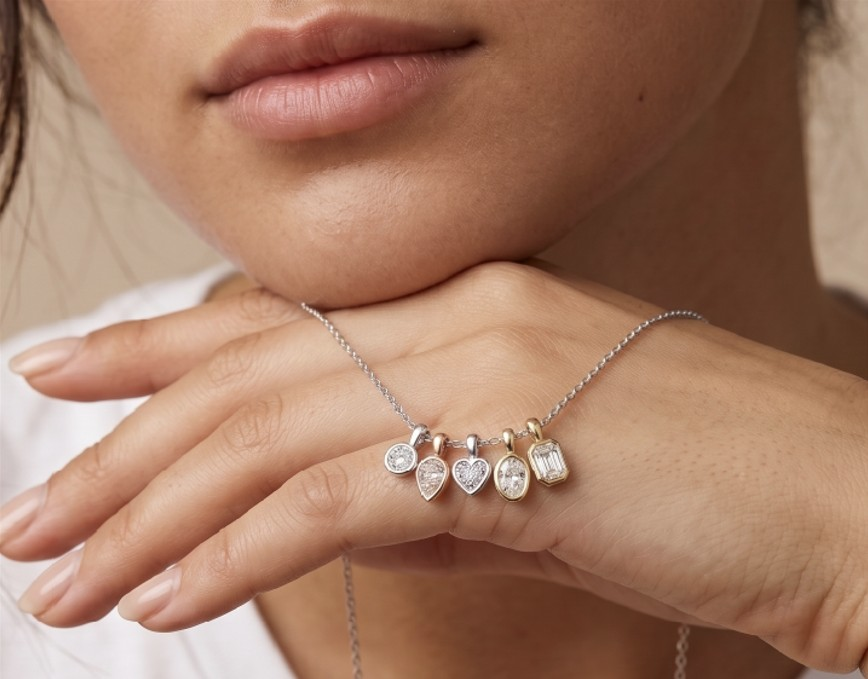
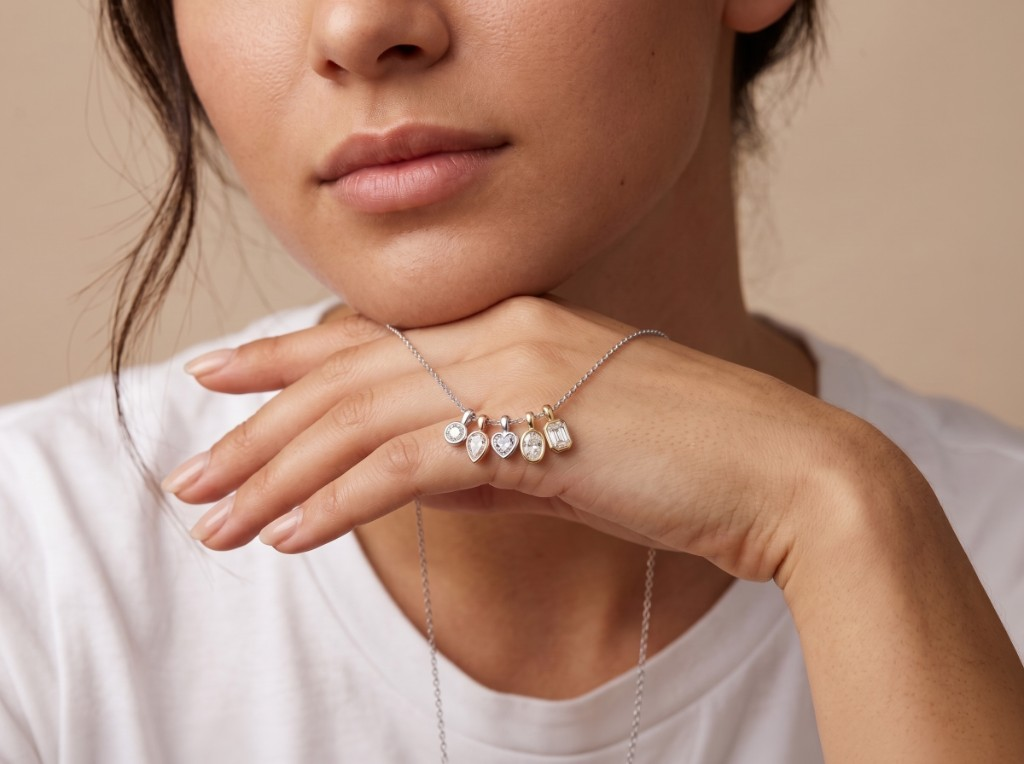
feat: integrate Pendant Collection details into Header and Category pages for enhanced user engagement and visual appeal

diff --git a/components/Products.js b/components/Products.js
@@ -405,7 +405,7 @@ const Products = ({
 					<div
 						className={`${styles.products} ${!individual ? styles.gap : ''}`}
 					>
-						{collectionPreview?.media && (
+						{(collectionPreview?.media || collectionPreview?.imageUrl) && (
 							<Box
 								gridColumn={{ xs: 'span 12', lg: 'span 6' }}
 								gridRow={'span 2'}
@@ -421,7 +421,7 @@ const Products = ({
 										: null
 								}}
 							>
-								{collectionPreview.media.fields.file.contentType.includes(
+								{collectionPreview.media?.fields?.file?.contentType?.includes(
 									'video'
 								) ? (
 									<Box position='relative' height='100%' width='100%'>
@@ -442,10 +442,15 @@ const Products = ({
 										minHeight={{ xs: '60vh', lg: '100%' }}
 									>
 										<Image
-											src={'https:' + collectionPreview.media.fields.file.url}
+											src={
+												collectionPreview.imageUrl ||
+												'https:' +
+													collectionPreview.media.fields.file.url
+											}
 											alt={collectionPreview.title}
 											fill
-											sizes='(max-width: 1024px) 100vw, 50vw'
+											quality={95}
+											sizes='(max-width: 1024px) 100vw, 1600px'
 											style={{ objectFit: 'cover' }}
 										/>
 									</Box>

diff --git a/app/shop/[category]/[metal]/[style]/page.js b/app/shop/[category]/[metal]/[style]/page.js
@@ -13,6 +13,7 @@ import {
 import { apolloClient } from '@/lib/apolloClient'
 import { GET_PRODUCTS } from '@/lib/queries/getProducts'
 import { GET_COLLECTION_BY_HANDLE } from '@/lib/queries/getCollectionByHandle'
+import { PENDANT_COLLECTION } from '@/lib/charmNecklace'
 
 const ALLOWED_CATEGORIES = [
 	'bracelets',
@@ -178,6 +179,16 @@ export default async function CategoryMetalStylePage(props) {
 				showFilters
 				filters={currentFilters}
 				category={category}
+				collectionPreview={
+					category === 'necklaces'
+						? {
+								title: PENDANT_COLLECTION.title,
+								description: PENDANT_COLLECTION.description,
+								imageUrl: PENDANT_COLLECTION.imageUrl,
+								mediaLink: PENDANT_COLLECTION.link
+							}
+						: null
+				}
 			/>
 			<PageContent content={content} nested />
 		</main>

diff --git a/components/Header.js b/components/Header.js
@@ -31,15 +31,16 @@ import { useCart } from '@/context/CartContext'
 import submenus from '@/data/submenus.json' with { type: 'json' }
 import bridalSubmenu from '@/data/bridalSubmenu.json' with { type: 'json' }
 import { collectionLabel, collectionSlug } from '@/lib/collectionSlug'
+import { PENDANT_COLLECTION } from '@/lib/charmNecklace'
 
 const PHONE_DISPLAY = '+1 (212) 470-3049'
 const PHONE_HREF = 'tel:+12124703049'
 
 const PENDANT_COLLECTION_PROMO = {
 	id: 'the-pendant-collection',
-	title: 'The Pendant Collection',
-	link: '/shop/necklaces/product/round-bezel-pendant?gold=yellow&charm=1',
-	imageUrl: '/the-pendant-collection.jpg'
+	title: PENDANT_COLLECTION.title,
+	link: PENDANT_COLLECTION.link,
+	imageUrl: PENDANT_COLLECTION.imageUrl
 }
 
 const mapContentfulPromos = (promotions = []) =>

diff --git a/lib/charmNecklace.js b/lib/charmNecklace.js
@@ -4,6 +4,14 @@ export const CHAIN_HANDLE = 'necklace-chain-copy'
 export const CHARM_COPY_HANDLE = 'charm-bezel-pendant'
 export const MAX_CHARMS = 5
 
+export const PENDANT_COLLECTION = {
+	title: 'The Pendant Collection',
+	description:
+		'Layer them, swap them, and collect them over time, letting every piece grow with its own story.',
+	imageUrl: '/the-pendant-collection.jpg',
+	link: '/shop/necklaces/product/round-bezel-pendant?gold=yellow&charm=1'
+}
+
 export const isCharmCopyProduct = product =>
 	(product?.handle || '') === CHARM_COPY_HANDLE ||
 	(product?.title || '').toLowerCase() === 'charm bezel pendant'

diff --git a/components/HeaderSubmenu.js b/components/HeaderSubmenu.js
@@ -72,7 +72,8 @@ const HeaderSubmenu = ({ columns = [], promotions = [], promoOverrides = [] }) =
 									style={{ objectFit: 'cover' }}
 									alt={item.title || 'Submenu promotion image'}
 									fill
-									sizes='(max-width: 1024px) 100vw, 25vw'
+									quality={95}
+									sizes='(max-width: 1024px) 100vw, 768px'
 								/>
 							)}
 						</div>
